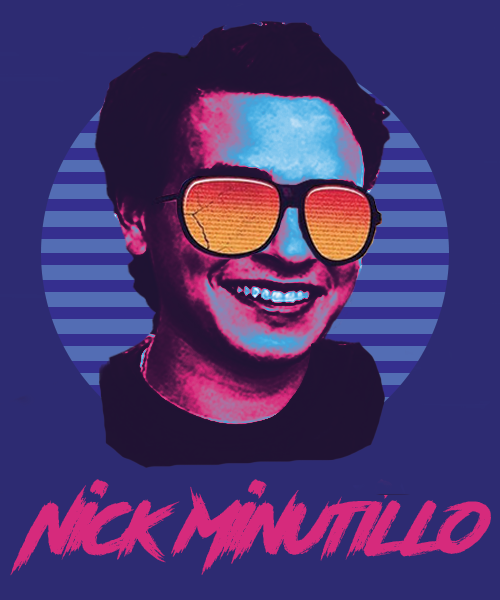
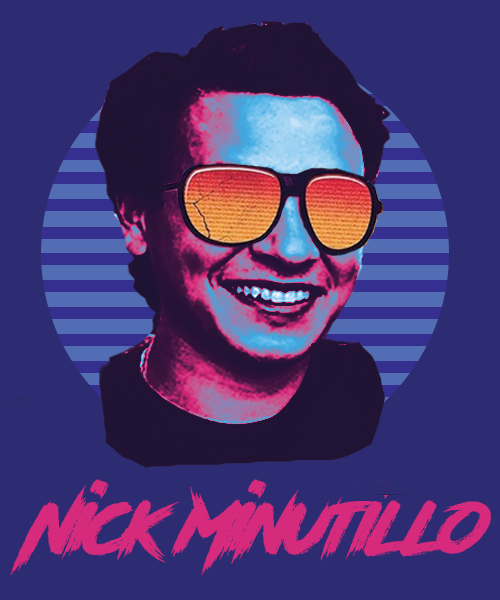
projects component

diff --git a/src/components/Projects/projects.js b/src/components/Projects/projects.js
@@ -1,0 +1,39 @@
+import React from 'react';
+import './projects.css';
+import projectimg from '../../resources/projectsimg.png';
+import Bounce from 'react-reveal/Bounce';
+import Fade from 'react-reveal/Fade';
+
+
+class Projects extends React.Component {
+    render () {
+        return (
+            <div className='projbox'>
+            <Bounce right>
+            <img src={projectimg} alt="img01" width='600px' className='projimg'/>
+            </Bounce>
+                <Fade bottom>
+                <section className='proj'>
+                    <h2 className='projtitle'>Upcomming</h2>
+                    <p>
+                    This spot is for a project I am currently working on that will be finished soon. Check back soon if you like dice games ;)
+                    </p>
+                </section>
+                </Fade>
+                <Fade bottom>
+                <section className='proj'>
+                    <h2 className='projtitle'>RetroSite</h2>
+                    <p>
+                    This portfolio site has been my first major solo project. It was built using React.js. 
+                    All the graphics were made by me in Photoshop. 
+                    I plan on adding more functionality and interactivity.   
+                    </p>
+                </section>
+                </Fade>
+
+            </div>
+        );
+    }
+};
+
+export default Projects;

diff --git a/src/components/Aboutme/aboutme.js b/src/components/Aboutme/aboutme.js
@@ -9,7 +9,7 @@ class Aboutme extends React.Component {
         return (
             <div className='maindiv'>
                 <section class="box">
-                <img src={aboutme} alt="img01" width='400px' className='amimg'/>
+                    <img src={aboutme} alt="img01" width='450px' className='amimg'/>
                     <Fade bottom>
                         <p className='text'>I'm<span> Nick Minutillo</span>, a web developer based out of <span>Austin, TX</span>.
                             After living in Florida for most of my life I attended Penn State University and earned my engineering degree.

diff --git a/src/components/Projects/projects.css b/src/components/Projects/projects.css
@@ -1,0 +1,27 @@
+.projbox {
+    width: 100%;
+    height: 300px;
+    color:rgb(27,182,225);
+}
+.proj {
+    width: 200px;
+    height: 250px;
+    float: right;
+    margin: 20px 180px 0px 0px;
+    text-align: center;
+}
+
+.projtitle {
+    border: 1px solid rgb(27,182,225);
+    box-shadow: 0px 0px 10px 2px rgb(27,182,225), inset 0px 0px 10px 2px rgb(27,182,225);
+    border-radius: 10px;
+    width: auto;
+    padding: 10px;
+    margin: auto;
+    color: rgb(27,182,225);
+}
+
+.projimg {
+    float: left;
+    margin: 10px 00px 20px 200px;
+}

diff --git a/src/components/Aboutme/aboutme.css b/src/components/Aboutme/aboutme.css
@@ -9,7 +9,7 @@ span {
     width: 50vw;
     padding: 30px;
     border-radius: 10px;
-    margin-right: 50px;
+    margin-right: 40px;
     margin-top: 100px;
     float:right;
 }
@@ -27,7 +27,7 @@ span {
     
 .amimg {
     float: left;
-    margin-left: 150px;
+    margin-left: 80px;
     animation-name: test;
     animation-duration: 2s;
     animation-iteration-count: infinite;

diff --git a/src/components/Slider/slider.js b/src/components/Slider/slider.js
@@ -1,9 +1,10 @@
 import React,{useState} from 'react';
 import Aboutme from '../Aboutme/aboutme'
+import Projects from '../Projects/projects'
 import './slider.css'
 
 function Slider() {
-    let sliderArr = [<Aboutme />,<Aboutme />,<Aboutme />];
+    let sliderArr = [<Aboutme />,<Projects />,<Aboutme />];
     const [y, setY] = useState(0)
     const go1=() => {
         setY(0);

diff --git a/src/components/App/App.js b/src/components/App/App.js
@@ -8,6 +8,7 @@ import test from '../../resources/test.png';
 import backvid from '../../resources/backvid.mp4';
 import trees from '../../resources/treecar.png'
 import Slider from '../Slider/slider';
+import Projects from '../Projects/projects';
 import './App.css';
 
 function App() {

diff --git a/src/components/Slider/slider.css b/src/components/Slider/slider.css
@@ -1,6 +1,6 @@
 .slider {
     width: 100%;
-    height: 400px;
+    height: 500px;
     box-sizing: border-box;
     margin:0;
     padding: 0;
@@ -9,7 +9,7 @@
 
 .slide {
     width: 100%;
-    height: 400px;
+    height: 500px;
     overflow: hidden;
     transition: .5s;
 }
